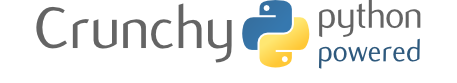
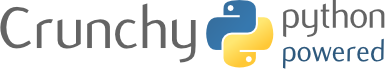
Changed the style again radically and changed the menu.

diff --git a/trunk/crunchy/server_root/crunchy_newstyle.css b/trunk/crunchy/server_root/crunchy_newstyle.css
@@ -7,14 +7,15 @@ The palette is based on the tango icon palette
 
 
 html {
-    background-color: #204a87;
+    background-color: #f8f8ff;
+    background-color: white;
 }
 
 body {
 font-family: 'Arial', sans-serif;
 font-weight: normal;
 color: #2e3436;
-font-size: 12pt;
+font-size: 11pt;
 }
 
 p {
@@ -37,38 +38,60 @@ h1 {
 blockquote {
     padding: 0.2em 1em 0.2em 1em;
 }
+
+img {
+    border : none;
+    margin: 0px;
+    padding: 0px;
+}
+
 #container {
     padding: 0px 1em 0px 1em;
-    max-width: 760px;
+    width: 900px;
     margin: 0 auto 0 auto;
-    background-color: #eeeeec;
-    border-left: 3px solid #555753;
-    border-right: 3px solid #555753;
+    /*border-left: 3px solid #555753;*/
+    /*border-right: 3px solid #555753;*/
     min-height: 600px;
 }
 
 #titlebar {
     height: 100px;
-    background-image: url(crunchy-python-powered.png);
+    /*background-image: url(crunchy-python-powered.png);*/
+    margin-top: 25px;
     background-repeat: no-repeat;
-    background-position: center center;
+    background-position: center left;
 }
 
+#titlebar img {
+    display: inline;
+    margin-top: 24px;
+    width : 300px;
+    margin-left: 7px;
+    vertical-align: middle;
+    
+}
+
+#titlebar h1 {
+    display: inline;
+    font-size: 50px;
+    text-align: center;
+    padding-left: 1em;
+    vertical-align: bottom;
+}
 #navbar {
+    border-right: 1px solid #2e3436;
     min-width: 100px;
     float: left;
     margin-bottom: 1em;
     margin-right: 1em;
-    background-color: #d3d7cf;
 }
 
 #navbar span.heading {
     text-align: center;
 	display: block;
 	font-weight: bold;
-	background-color: #fce94f;
 	padding: 3px 1em 3px 1em;
-	font-size: 14pt;
+	/*font-size: 14pt;*/
 	font-family: 'Trebuchet MS', sans-serif;
 }
 
@@ -76,9 +99,8 @@ blockquote {
 	display: block;
 	padding: 0.15em 0.5em;
 	margin: 1px 0;
-	font-weight: bold;
 	text-decoration: none;
-	font-size: 12pt;
+	/*font-size: 12pt;*/
 }
 
 #navbar a:hover {
@@ -86,13 +108,3 @@ blockquote {
 	text-decoration: none;
 }
 
-#navbar .me {
-	display: block;
-	color: black;
-	background: white;
-	padding: 0.15em 0.5em;
-	border: 1px solid white;
-	margin: 1px 0;
-	text-decoration: none;
-	font-style: italic;
-}

diff --git a/trunk/crunchy/server_root/index.html b/trunk/crunchy/server_root/index.html
@@ -21,7 +21,7 @@ div and and your header text in the titlebar div.
 
 <div id="container">
 <div id="titlebar">
-
+<a href="/"><img src="/crunchy-python-powered.png" /> </a><h1>Welcome To Crunchy</h1>
 </div>    
 
 <div id="navbar">
@@ -41,9 +41,8 @@ div and and your header text in the titlebar div.
     <a href="/functional_tests">Tests</a>
 </div>
 <div id="content">
-    <h1>Welcome to Crunchy!</h1>
     <p> 
-    This is version 0.9.8.6.
+    This is version 0.9.9.2.
     We were planning to have version 1.0 released but, since many small improvements
     are added to Crunchy through various <i>tasks</i> as part of Google's
     Highly Open Participation contest, we are delaying the release to incorporate
@@ -51,19 +50,10 @@ div and and your header text in the titlebar div.
     that are contributing to Crunchy.
     </p>
     <p>  If you are new to Crunchy, you may want
-    to go first through the user tutorial using the links on the left.</p>
+    to first go through the tutorial using the links on the left.</p>
 
-    <p>You can come back to this page by clicking on the Crunchy Python logo at the top of any page.
-    To quit Crunchy, simply click on the "Quit" link at the top.</p>
+    <p>You can use the Crunchy Menu at the top right to come back to this page and to quit Crunchy all together.</p>
 
-    <p>New in 0.9.8.6:
-    It is possible to process reStructuredText files the same as plain html files.
-    <a href="/crunchy_tutor/remote_en.html"> Check on this page</a>, towards the bottom.
-    </p>
-    <p>New in 0.9.8.5:
-    <a href="/functional_tests/external_test.html">
-    External execution using alternate Python version.</a>
-    </p>
 </div>
 </div>
 

diff --git a/trunk/crunchy/server_root/template.html b/trunk/crunchy/server_root/template.html
@@ -14,15 +14,25 @@ div and and your header text in the titlebar div.
 
 	<title>Crunchy Template Page</title>
 	
-	<link rel="stylesheet" href="/crunchy_newstyle.css" type="text/css" charset="utf-8">
+	<link rel="stylesheet" href="crunchy_newstyle.css" type="text/css" charset="utf-8">
+	<link rel="stylesheet" href="crunchy_menu.css" type="text/css" charset="utf-8">
 </head>
 
 <body>
-
+<!-- *******************************************************************************-->
+<div id="mebnu_box">
+<div id="menu_title">Crunchy Menu</div>
+<a href="/">Crunchy Home</a>
+<a href="#">Security Report ...</a>
+<a href="#">Security Level ...</a>
+<span class="menu_separator" > </span>
+<a href="/exit">Quit Crunchy</a>
+</div>
+<!-- ****************************************************************************** -->
 <div id="container">
-<div id="titlebar">
-
-</div>    
+    <div id="titlebar">
+    <a href="/"><img src="crunchy-python-powered.png" /> </a><h1>Welcome To Crunchy</h1>
+    </div> 
 
 <div id="navbar">
     <span class="heading">The Crunchy Tutorial</span>
@@ -41,7 +51,7 @@ div and and your header text in the titlebar div.
     <a href="/functional_tests">Tests</a>
 </div>
 <div id="content">
-
+<h1>Content Title</h1>
 </div>
 </div>
 

diff --git a/trunk/crunchy/server_root/crunchy_menu.css b/trunk/crunchy/server_root/crunchy_menu.css
@@ -1,0 +1,56 @@
+
+#menu_box {
+    position: fixed;
+    width: 150px;
+    height:18px;
+    right: 0px;
+    top: 0px;
+    overflow: hidden;
+    z-index: 300;
+    background-color: #3465a4;
+    color: black;
+}
+
+#menu_box:hover {
+    overflow:visible;
+}
+
+#menu_title {
+    text-align: center;
+    border: 1px solid black;
+    height: 16px;
+}
+
+#menu_box a {
+    display: block;
+    background-color: #729fcf;
+    color: black;
+    padding-left: 3px;
+    padding: 2px 0px;
+}
+
+.menu_separator {
+    display: block;
+    height: 0px;
+    border-top: 1px solid #2e3436;
+    background-color: #729fcf;
+    
+}
+
+.security_report {
+    display: none;
+    position: absolute;
+    height: 60px;
+    bottom: 0;
+    z-index:10;
+    right: 0;
+    color: black;
+    border: 3px solid #FFBC29;
+    background-color: white;
+    font: 10pt monospace;
+    margin: 0;
+    max-width: 600px;
+}
+.security_report a:hover{
+font:bold;
+}

diff --git a/trunk/crunchy/server_root/menu_en.html b/trunk/crunchy/server_root/menu_en.html
@@ -1,15 +1,17 @@
 <html>
 <head>
-<link href="/menu_basic.css" rel="stylesheet" type="text/css" />
+<link rel="stylesheet" href="/crunchy_menu.css" type="text/css" charset="utf-8">
 </head>
 <body>
 
 <!-- specify width and right values so that it can be dragged properly -->
-<div class="crunchy_menu_container" style="width:306px;right:0;">
-<ul>
-<li> <a href="/"><img src="/crunchy.png" alt="Home"/></a></li>
-<li><a href="/exit">Quit</a></li>
-</ul>
+<div id="crunchy_menu">
+<div id="menu_title">Crunchy Menu</div>
+<a href="/">Crunchy Home</a>
+<a href="#" onclick="show_security_info();">Security Report ...</a>
+<a href="#" onclick="alert('This functionality has not been implemented.')">Set Security Level ...</a>
+<span class="menu_separator" > </span>
+<a href="/exit">Quit Crunchy</a>
 </div>
 </body>
 </html>

diff --git a/trunk/crunchy/server_root/crunchy_tutor/welcome_en.html b/trunk/crunchy/server_root/crunchy_tutor/welcome_en.html
@@ -20,9 +20,9 @@ div and and your header text in the titlebar div.
 <body>
 
 <div id="container">
-<div id="titlebar">
-
-</div>    
+    <div id="titlebar">
+    <a href="/"><img src="/crunchy-python-powered.png" /> </a><h1>The Crunchy Tutorial</h1>
+    </div>   
 
 <div id="navbar">
     <span class="heading">The Crunchy Tutorial</span>
@@ -41,7 +41,6 @@ div and and your header text in the titlebar div.
     <a href="/functional_tests">Tests</a>
 </div>
 <div id="content">
-<h1>The Crunchy Tutorial</h1>
     <p>This is a tutorial on the use of Crunchy. Crunchy's goal is to transform plain web-based Python tutorials into <i>amazingly exciting</i> interactive sessions!</p>
     <blockquote><i>
     Move along.  There's nothing to see!  Keep moving!</i> <br/>

diff --git a/trunk/crunchy/server_root/functional_tests/fake_menu2.html b/trunk/crunchy/server_root/functional_tests/fake_menu2.html
@@ -1,6 +1,6 @@
 <html>
 <head>
-<link href="../../menu_basic.css" rel="stylesheet" type="text/css" />
+<link href="/menu_basic.css" rel="stylesheet" type="text/css" />
 </head>
 <body>
 
